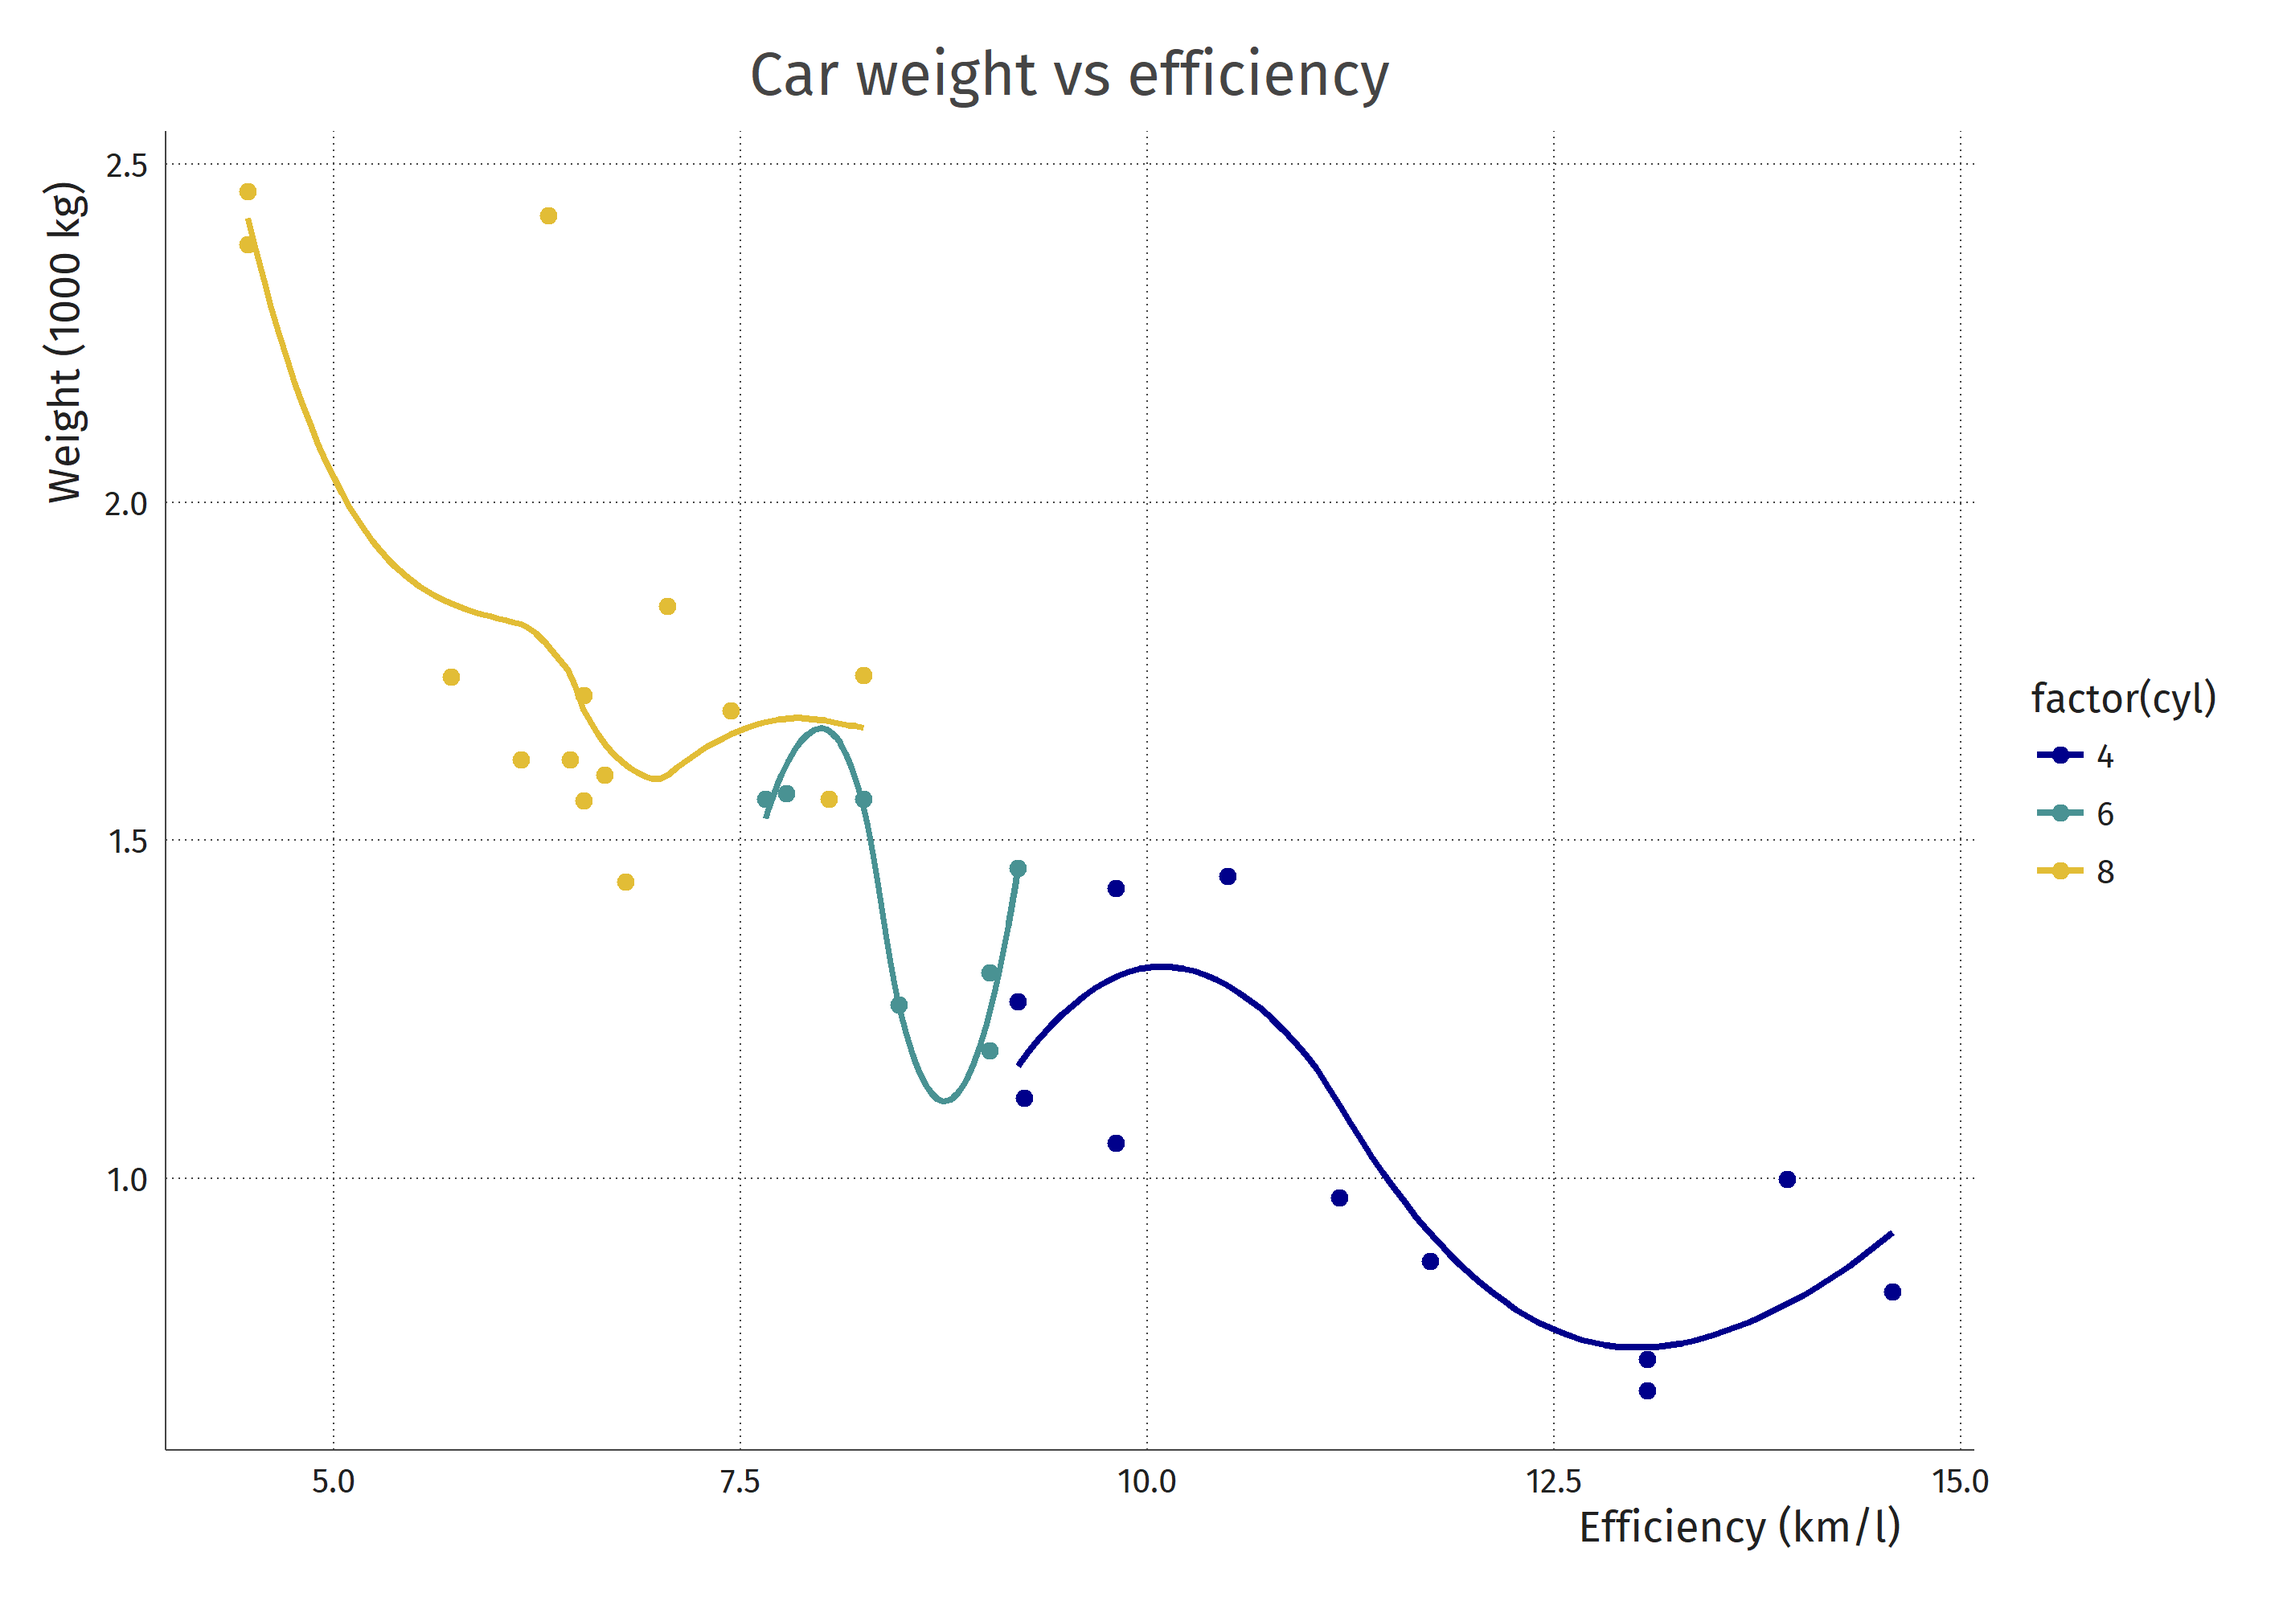
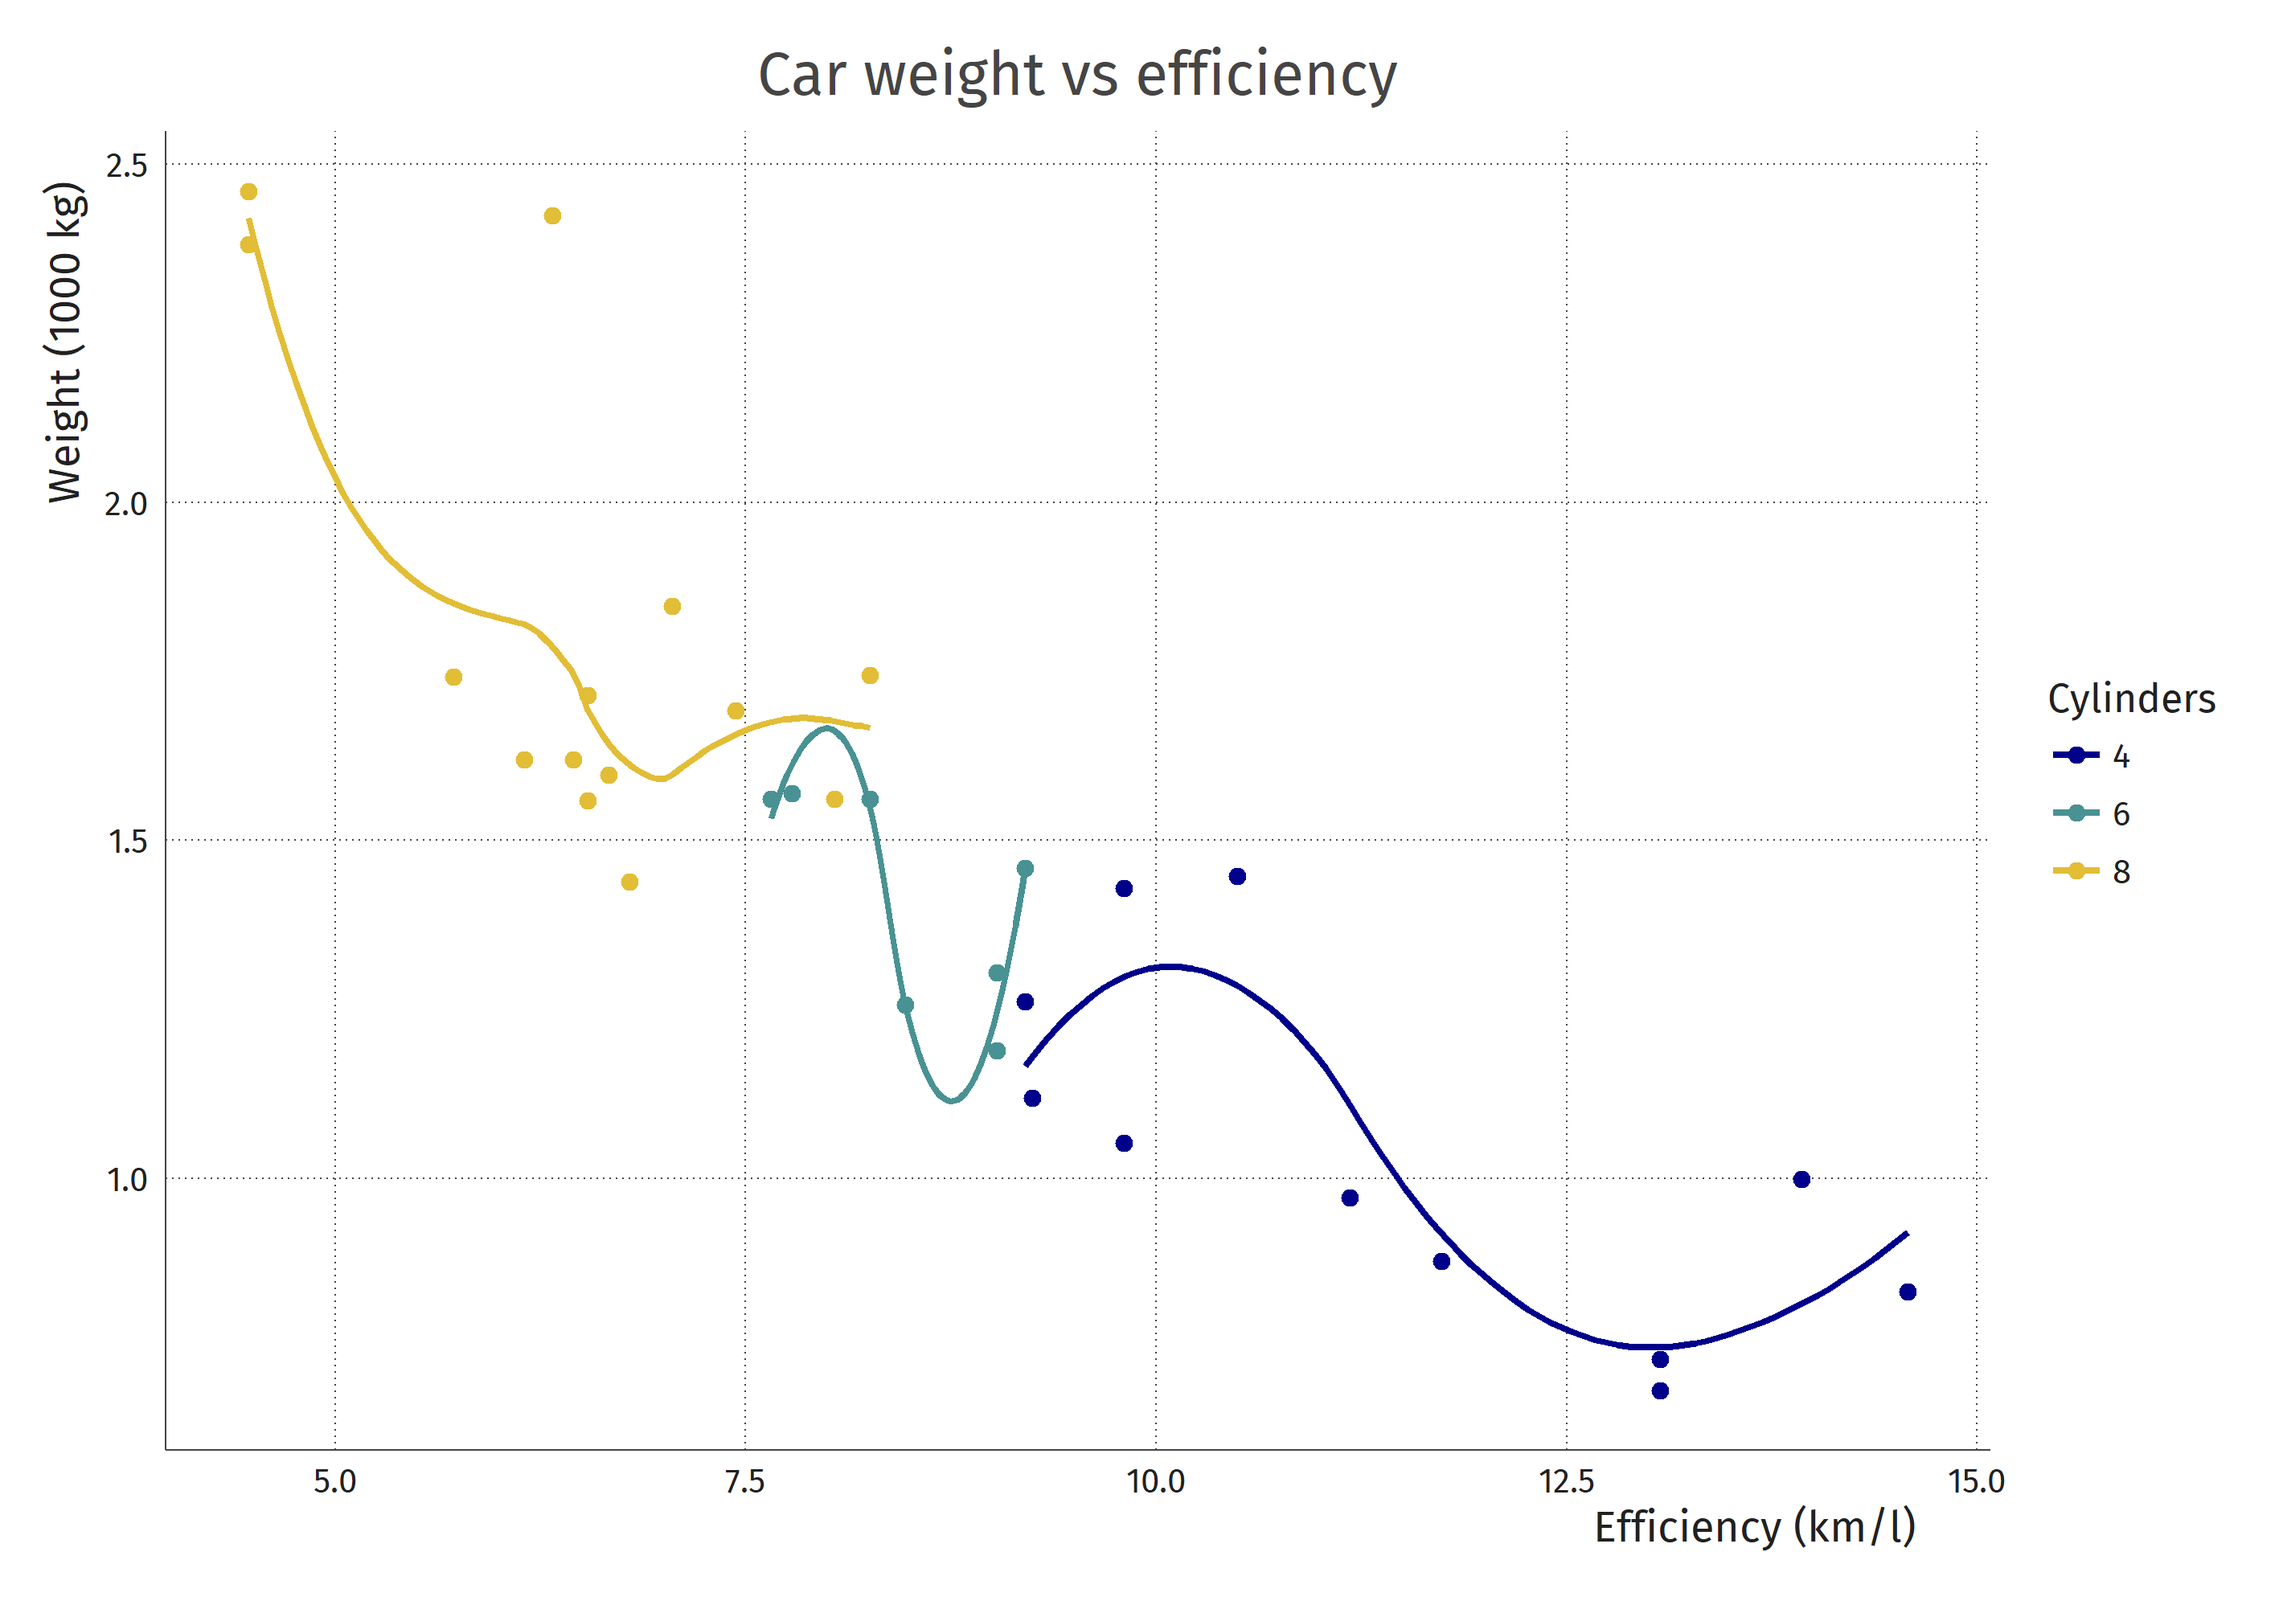
Fix legend label

diff --git a/README.md b/README.md
@@ -7,7 +7,8 @@ ggplot(mtcars, aes(x = mpg*0.43, y = wt*0.4535924, colour = factor(cyl))) +
        geom_point(size = 2) + geom_smooth(se = FALSE) +
        labs(title = "Car weight vs efficiency",
             x = "Efficiency (km/l)",
-            y = "Weight (1000 kg)") +
+            y = "Weight (1000 kg)",
+            colour = "Cylinders") +
        theme_fira()
 
 firaSave("plot.png", device = "png", dpi = 300)
